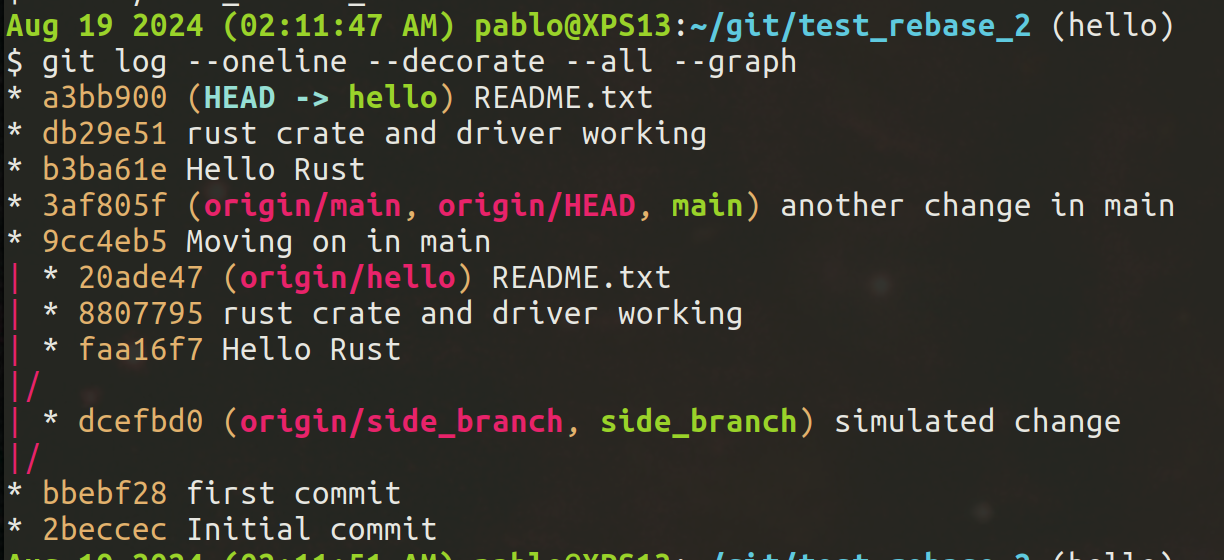
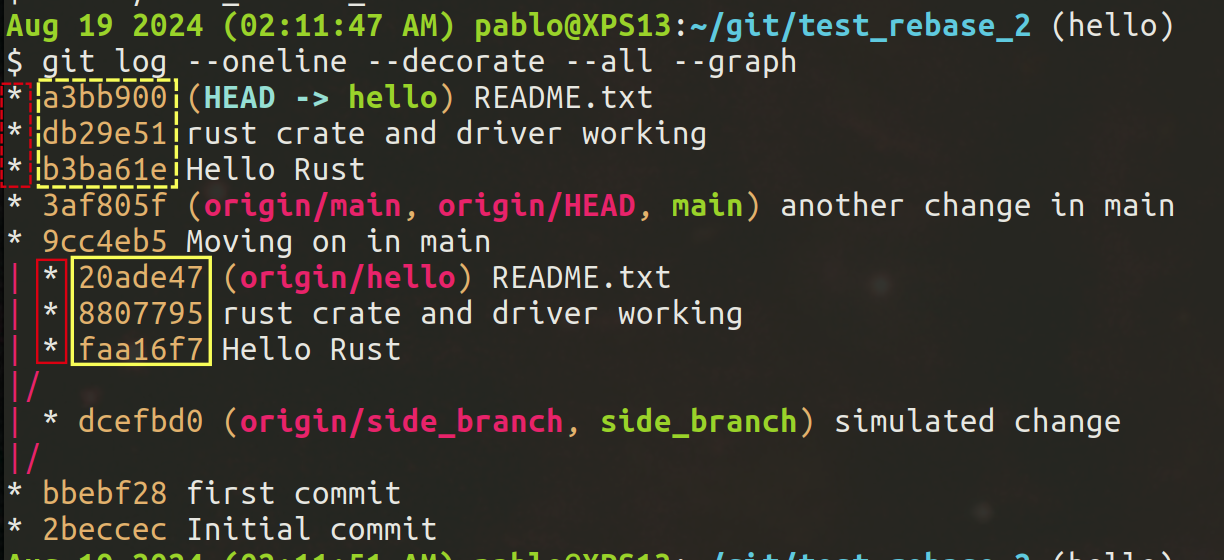
ignoring temp files, better graphs, other editorial and content changes

Changed region(s): [[0.031, 0.4554, 0.1863, 0.6679], [0.0, 0.1214, 0.1552, 0.3339], [0.1242, 0.3036, 0.1552, 0.3339]]

diff --git a/main.tex b/main.tex
@@ -15,6 +15,9 @@
 % \usepackage{bookman}
 \usepackage{mathpazo}
 
+% To set paragraph indentation and vertical space between them
+\usepackage[skip=10pt plus1pt, indent=10pt]{parskip}
+
 % Nice captions.
 \usepackage[hang,small,bf]{caption}
 \setlength{\captionmargin}{25pt}
@@ -119,15 +122,22 @@ After a \texttt{git rebase main} the local tree appears as in Figure~\ref{fig:tr
 By contrast, Figure~\ref{fig:tree-after-merge} shows the same repo but after doing a merge of \texttt{main} on \texttt{hello}.
 
 
-\begin{figure}[ht!]
+\begin{figure}[hb!]
     \centering
     \includegraphics[width=\textwidth]{images/Tree_after_merge_main_on_hello.png}
     \caption{The shape of the tree in the local repo after doing a merge of \texttt{hello} with \texttt{main}.}
     \label{fig:tree-after-merge}
 \end{figure}
 
+One of the most salient features is that rebase writes new commits when it enters a copy of the branch \texttt{hello} onto the branch \texttt{main} while it leaves the original commits untouched.
 
+Confirm that the branch \texttt{hello} still shows the commits \textcolor{brown}{20ade47}, \textcolor{brown}{8807795}, and \textcolor{brown}{faa16f7} in both the rebase in Figure~\ref{fig:tree-after-rebase} and the merge trees \ref{fig:tree-after-merge}.
+Both are highlighted with a yellow box of solid lines while the commits are marked by a red box along their final position, in the case of the rebase strategy they are still on the feature branch, while after the merge, they are part of the history of the \texttt{main} branch.
 
+In the case of the rebase strategy, there are three new commits \textcolor{brown}{a3bb900}, \textcolor{brown}{db29e51}, \textcolor{brown}{b3ba61e} on \texttt{main} highlighted in red dash lines along the tree and in the new commit hashes are surrounded by a dash yellow box in  Figure~\ref{fig:tree-after-rebase}. Those commits are not present in the tree after the merge. 
+
+If work in the branch \texttt{hello} ended at this point, deleting the branch pointers would make the commits disappear from the repo in the case of the rebase strategy. 
+However, in the merge scenario, the branch pointer would be eliminated but the commits would stay in the tree.
 
 
 
